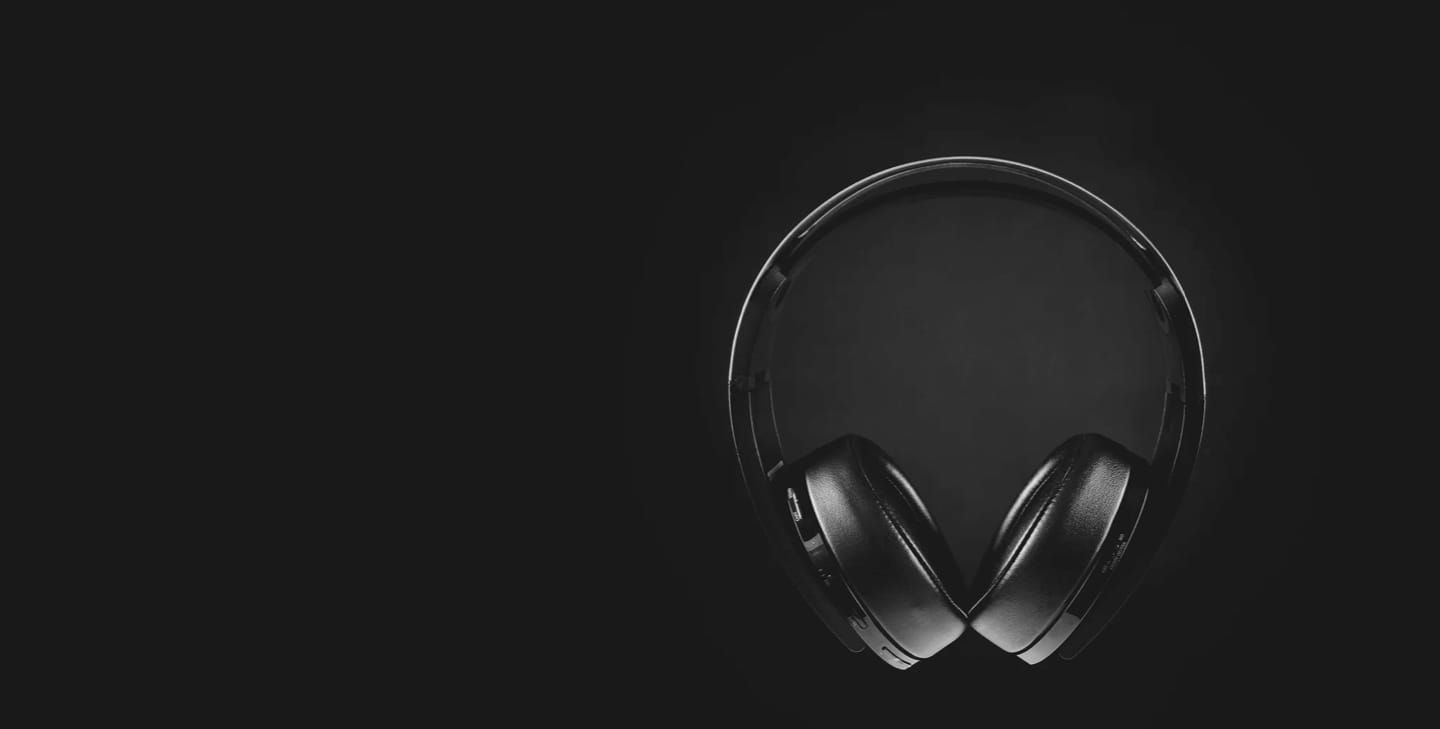
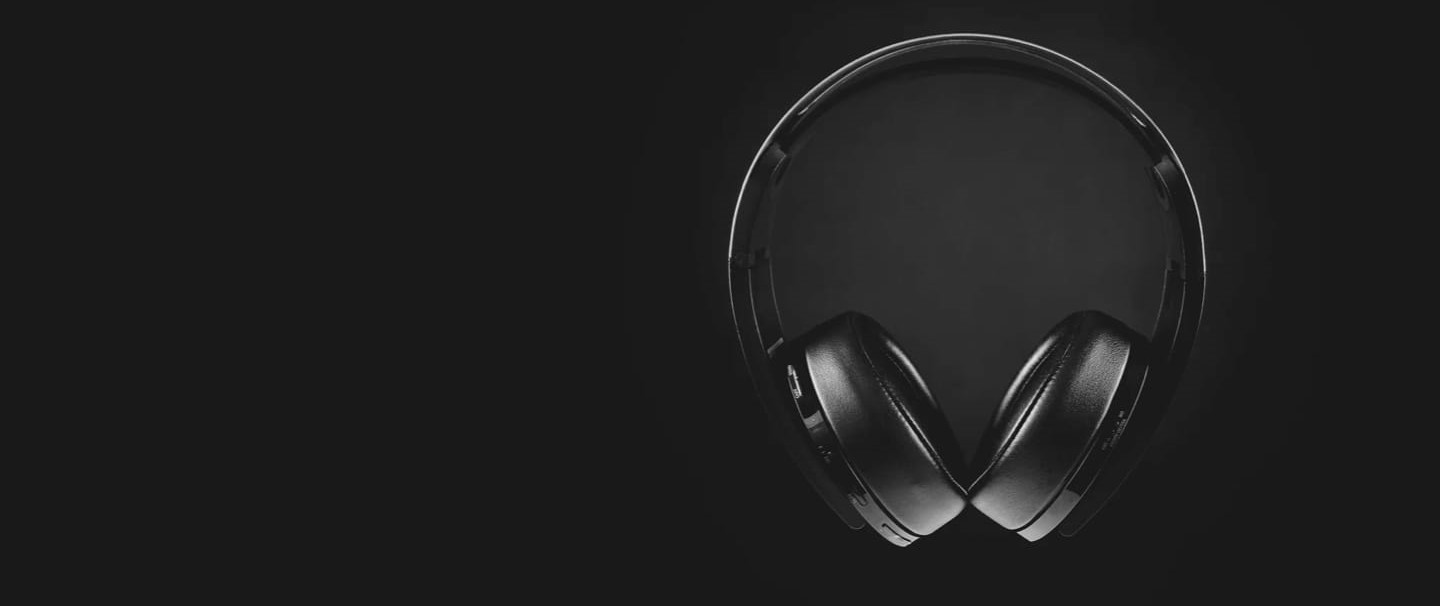
Helper component 1 completed

diff --git a/src/components/homeHelperComponents/HelperComponent1.js b/src/components/homeHelperComponents/HelperComponent1.js
@@ -1,0 +1,47 @@
+import React from "react";
+import { useSelector } from "react-redux";
+import { categoryImages } from "../../helper/images";
+import { useNavigate } from "react-router-dom";
+import { Link } from "react-router-dom";
+
+import "../../styling/helperComponent1.scss";
+function HelperComponent1() {
+  const navigate = useNavigate();
+  let categoryData = useSelector((state) => state.fullDataReducer.fullData);
+
+  return (
+    <div className="comp-1-full-box">
+      {Object.keys(categoryData).map((single) => {
+        let imageSet = categoryImages.earphone_png;
+        if (single == "headphones") {
+          imageSet = categoryImages.headphone_png;
+        } else if (single == "speakers") {
+          imageSet = categoryImages.speaker_png;
+        }
+        return (
+          <div className="comp-1-single-box">
+            <div className="comp-1-image">
+              <img src={imageSet} width="220" height="220" />
+            </div>
+            <Link
+              to={`/${single}`}
+              style={{ textDecoration: "none" }}
+              className="comp-1-name"
+            >
+              {single}
+            </Link>
+            <Link
+              to={`${single}`}
+              style={{ textDecoration: "none" }}
+              className="comp-1-shop"
+            >
+              Shop Now <span>&#62;</span>
+            </Link>
+          </div>
+        );
+      })}
+    </div>
+  );
+}
+
+export default HelperComponent1;

diff --git a/src/styling/home.scss b/src/styling/home.scss
@@ -1,27 +1,45 @@
-.first-banner{
+.home-first-banner{
     background-image: url("../assets-image/home/desktop/image-hero.jpg");
     background-size: 100%;
     background-position: right;
     background-repeat: no-repeat;
-    height: 100vh;
-    .first-banner-content{
+    height: 90vh;
+    .home-first-banner-content{
         color: white;
         display: flex;
         flex-direction: column;
         justify-content: space-between;
+        height: 50%;
         width: 30%;
         padding-left: 10%;
         padding-top: 10%;
-        .new-product{
+        .home-new-product{
+            width: 90%;
             color: #7f7f7f;
             font-size: 1.2rem;
+            font-weight: 500;
             line-height: 1.3rem;
-            letter-spacing: 1rem;
+            letter-spacing: 0.6rem;
         }
-        .product-name{
+        .home-product-name{
             font-size: 2.7rem;
             font-weight: 900;
-            line-height: 2.5rem;
+            line-height: 3rem;
+            
+        }
+        .home-product-desc{
+            color: #8c8a8a;
+            width: 110%;
+            font-size: 1rem;
+            line-height: 1.5Rrem;
+        }
+        .home-seeProducts-button{
+            margin-top: 5%;
+            font-size: 1rem;
+            background-color: #d87c49;
+            color: white;
+            width: 50%;
+            height: 20%;
         }
     }
 }

diff --git a/src/components/Home.js b/src/components/Home.js
@@ -1,21 +1,34 @@
 import React from "react";
-
+import { useNavigate } from "react-router-dom";
 import "../styling/home.scss";
+import {HelperComponent1,HelperComponent2,HelperComponent3} from './index'
 
 export default function Home() {
+  const navigate = useNavigate();
   return (
     <div>
-      <div className="first-banner">
-        <div className="first-banner-content">
-          <div className="new-product">NEW PRODUCT</div>
-          <div className="product-name">XX99 Mark 11 Headphones</div>
-          <div>
+      <div className="home-first-banner">
+        <div className="home-first-banner-content">
+          <div className="home-new-product">NEW PRODUCT</div>
+          <div className="home-product-name">XX99 Mark 11 Headphones</div>
+          <div className="home-product-desc">
             Experience natural, lifelike audio and exceptional build quality
             made for the passionate music enthusiast
           </div>
-          <button></button>
+          <button
+            className="home-seeProducts-button"
+            onClick={() => {
+              navigate("/headphones/1");
+            }}
+          >
+            SEE PRODUCTS
+          </button>
         </div>
       </div>
+      <HelperComponent1 />
+
+      <HelperComponent2 />
+      <HelperComponent3 />
     </div>
   );
 }

diff --git a/src/styling/helperComponent1.scss b/src/styling/helperComponent1.scss
@@ -1,0 +1,49 @@
+
+.comp-1-full-box{
+display: flex;
+flex-direction: row;
+justify-content: space-between;
+padding:10% 2% 6% ;
+height: 12rem;
+.comp-1-single-box{
+    background-color: #eeeeee;
+    width: 29%;
+    display: flex;
+    flex-direction: column;
+    justify-content: center;
+    align-items: center;
+    height: 100%;
+    border-radius: 3%;
+    .comp-1-image{
+        margin-top: -27%;
+    }
+    .comp-1-name{
+        font-weight: 600;
+        font-size: 1.2rem;
+        text-transform: uppercase;
+        color: #47484a;
+        margin-top: -8%;
+         border: none;
+        //  background-color: #ececec;
+        &:hover{
+            color: #d98454;
+        }
+    }
+    .comp-1-shop{
+        font-size: 0.8rem;
+        color: #8e9093;
+        border: none;
+        span{
+            font-weight: bolder;
+            color: #d98454;
+            &:hover{
+                color: black;
+            }
+        }
+        &:hover {
+                color: #d98454;
+            }
+        
+    }
+}
+}

diff --git a/src/helper/images.js b/src/helper/images.js
@@ -24,12 +24,19 @@ import YX1_EARPHONES_1 from "../assets-image/products/earphones/YX1 EARPHONES/1.
 import YX1_EARPHONES_2 from "../assets-image/products/earphones/YX1 EARPHONES/2.jpg";
 import YX1_EARPHONES_3 from "../assets-image/products/earphones/YX1 EARPHONES/3.jpg";
 
+//Caegory pngs
+import earphone_png from "../assets-image/shared/earphones.png";
+import headphone_png from "../assets-image/shared/headphones.png";
+import speaker_png from "../assets-image/shared/speakers.png";
 
- export const categoryImages = {
-    3:XX_59_HEADPHONES,
-    2:XX_99_MARK_ONE_HEADPHONES,
-    1:XX_99_MARK_TWO_HEADPHONES,
-    5:ZX7_SPEAKER,
-    4:ZX9_SPEAKER,
-    6:YX1_EARPHONES,
-  }
+export const categoryImages = {
+  headphone_png,
+  speaker_png,
+  earphone_png,
+  3: XX_59_HEADPHONES,
+  2: XX_99_MARK_ONE_HEADPHONES,
+  1: XX_99_MARK_TWO_HEADPHONES,
+  5: ZX7_SPEAKER,
+  4: ZX9_SPEAKER,
+  6: YX1_EARPHONES,
+};

diff --git a/src/components/homeHelperComponents/HelperComponent3.js b/src/components/homeHelperComponents/HelperComponent3.js
@@ -1,0 +1,22 @@
+import React from 'react'
+
+function HelperComponent3() {
+  return (
+    <div>
+      <div>
+        <div> BRINGING YOU THE BEST AUDIO GEAR</div>
+        <div>
+          Located at the heart of New York City, Audiophile is the premier store
+          for high end headphones, earphones, speakers, and audio accessories.
+          We have a large showroom and luxury demonstration rooms available for
+          you to browse and experience a wide range of our products. Stop by our
+          store to meet some of the fantastic people who make Audiophile the
+          best place to buy your portable audio equipment.
+        </div>
+      </div>
+      <div></div>
+    </div>
+  );
+}
+
+export default HelperComponent3

diff --git a/src/components/index.js b/src/components/index.js
@@ -3,5 +3,8 @@ import Category from "./Category";
 import Details from "./Details";
 import NavBar from './NavBar';
 import Footer from "./Footer";
+import HelperComponent1 from "./homeHelperComponents/HelperComponent1";
+import HelperComponent2 from "./homeHelperComponents/HelperComponent2";
+import HelperComponent3 from "./homeHelperComponents/HelperComponent3";
 
-export { Home, Category, Details, NavBar,Footer};
+export { Home, Category, Details, NavBar,Footer,HelperComponent1,HelperComponent2,HelperComponent3};

diff --git a/src/components/homeHelperComponents/HelperComponent2.js b/src/components/homeHelperComponents/HelperComponent2.js
@@ -1,0 +1,9 @@
+import React from 'react'
+
+function HelperComponent2() {
+  return (
+    <div>HelperComponent2</div>
+  )
+}
+
+export default HelperComponent2
